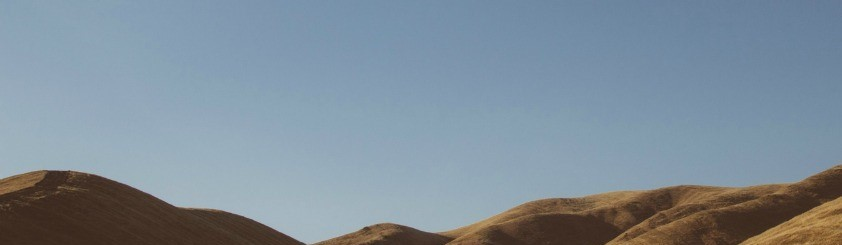
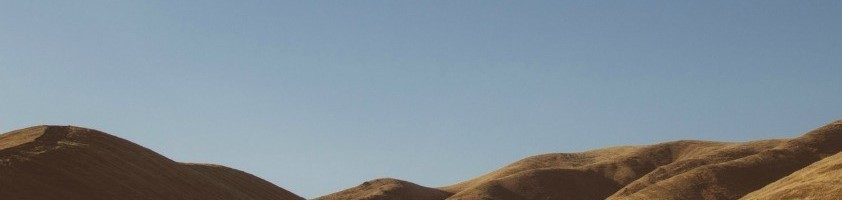
top css

diff --git a/style.css b/style.css
@@ -1,0 +1,40 @@
+* {
+  margin: 0;
+  font-family: system-ui, -apple-system, BlinkMacSystemFont, "Segoe UI", Roboto,
+    Oxygen, Ubuntu, Cantarell, "Open Sans", "Helvetica Neue", sans-serif;
+  font-weight: lighter;
+}
+
+#topContainer {
+  background-repeat: no-repeat;
+  width: 100%;
+  text-align: center;
+  background-image: url("/AddOns/background.jpg");
+  height: 200px;
+  display: flex;
+  flex-direction: column;
+  color: white;
+}
+#topTextContainer * {
+  margin-block: 15px 10px;
+}
+#boxContainer {
+  display: flex;
+  flex-direction: column;
+  justify-content: center;
+  align-items: center;
+}
+.box {
+  width: 200px;
+  border: 1px solid black;
+  margin: 5px;
+  display: flex;
+  justify-content: space-between;
+  padding-inline: 12px;
+  color: black;
+  font-size: small;
+  height: 30px;
+}
+.box * {
+  margin: 0;
+}

diff --git a/index.html b/index.html
@@ -15,10 +15,10 @@
           <h1 id="topBalance">0</h1>
         </div>
         <div id="boxContainer">
-          <div id="incomeBox">
+          <div id="incomeBox" class="box">
             <span>INCOME</span><span id="totalIncome"></span>
           </div>
-          <div id="expensesBox">
+          <div id="expensesBox" class="box">
             <span>EXPENSES</span>
             <span id="totalExpenses"></span>
             <span id="precentage"></span>
@@ -50,7 +50,7 @@
               </div>
             </div>
           </div>
-           <!-- expenses table part -->
+          <!-- expenses table part -->
           <div id="expensesTableContainer">
             <h3 id="expensesTableHead">Expenses</h3>
             <div id="expensesTableItems">
